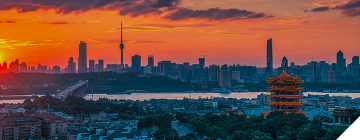
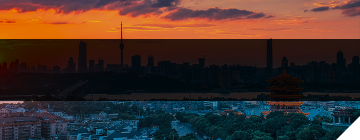
s11专题页

diff --git a/V1/css/s11.css b/V1/css/s11.css
@@ -1,6 +1,10 @@
-.s11 .format{
-
+.s11_format{
+    background: #FFFFFF;
+    border: 1px solid #EEEEEE;
+    border-radius: 8px;
+    padding: 30px 20px;
 }
+
 .s11_format_ul{
     display: flex;
     margin-bottom: 32px;
@@ -212,9 +216,8 @@
     background-repeat: no-repeat;
     background-position: center;
     background-size: cover;
-    margin-bottom: 10px;
+    /* margin-bottom: 10px; */
     font-size: 24px;
-    height: 140px;
     color: #fff;
     text-align: center;
     line-height: 140px;
@@ -249,6 +252,10 @@
 .sq,.cw{
     display: flex;
 }
+.sq{
+    height: 140px;
+    margin-bottom: 10px;
+}
 .sqcw .city_name{
     font-size: 24px;
     color: #fff;
@@ -274,7 +281,7 @@
 }
 .qd_active{
     background-image: url("../images/qd_active.png");
-    margin-bottom: 10px;
+    /* margin-bottom: 10px; */
 }
 .cd_active{
     background-image: url("../images/cd_active.png");
@@ -290,11 +297,14 @@
 }
 .s11_previous{
     width: 1200px;
-    height: 435px;
     background: #FFFFFF;
     border: 1px solid #EEEEEE;
     border-radius: 8px;
-    padding: 20px 20px 0 18px;
+    padding: 20px 20px 20px 18px;
+    background-image: url("../images/s11_pre_bg.png");
+    background-size: contain;
+    background-position: top right;
+    background-repeat: no-repeat;
 }
 .s11_previous_conItem{
     padding-left: 44px;
@@ -354,7 +364,7 @@
     margin-left: -50px;
     top: 20px;
 }
-.s11_previous_ulLi.active span{
+.s11_previous_ulLi.active span,.s11_previous_ulLi:hover span{
     font-size: 20px;
     color: #0F1AD3;
 }
@@ -374,7 +384,7 @@
     top: 50%;
     margin-top: -5px;
 }
-.s11_previous_ulLi.active::after{
+.s11_previous_ulLi.active::after,.s11_previous_ulLi:hover::after{
     width: 24px;
     height: 24px;
     background-image: url("../images/s11_pre_dot_active.png");
@@ -503,7 +513,7 @@
         padding-top: 0;
     }
     .s11_city{
-        padding: .3rem .3rem 0 .3rem;
+        padding: .3rem .3rem .2rem .3rem;
     }
     .s11_city_detail{
         flex-direction: column;
@@ -569,6 +579,8 @@
      .sq, .cw{
          justify-content: space-between;
          width: 6.9rem;
+         height: 3rem;
+         margin-bottom: .1rem;
      }
      .sqcw .city_name{
          font-size: .3rem;
@@ -616,8 +628,12 @@
      }
      .s11_previous{
          width: 7.5rem;
-         height: 6.7rem;
-         padding: .3rem .3rem 0 .3rem;
+         padding: .3rem .3rem 0.2rem .3rem;
+         background-image: url("../images/s11_pre_bg_wap.png");
+        background-size: cover;
+        background-position: top right;
+        background-repeat: no-repeat;
+        border: 0;
      }
      .s11_previous_champions{
          width: 6.9rem;
@@ -640,5 +656,28 @@
         line-height: .26rem;
         text-align: left;
         flex-shrink: 0;
+    }
+    .s11_previous_ulLi{
+        margin-bottom: .72rem;
+        width: 1.16rem;
+        height: .02rem;
+    }
+    .s11_champions_con .left span{
+        font-size: .22rem;
+        line-height: .22rem;
+        height: .22rem;
+    }
+    .s11_previous_con{
+        margin-bottom: .2rem;
+    }
+    .s11_previous_ul_wrapper{
+        width: 100%;
+        overflow-x: scroll;
+    }
+    .s11_previous_ul {
+        display: flex;
+        width: 11.6rem;
+        height: .86rem;
+        padding-top: .12rem;
     }
 }

diff --git a/V1/s11.html b/V1/s11.html
@@ -107,7 +107,7 @@
                 </div>
                 <!-- 比赛介绍 -->
                 <!-- 赛制 -->
-                <div class="format mb20">
+                <div class="s11_format mb20">
                     <div class="team_pub_top clearfix">
                         <div class="team_pub_img fl">
                             <img class="imgauto" src="./images/format_icon.png" alt="">
@@ -769,18 +769,20 @@
                                 </div>
                             </div>
                         </div>
-                        <ul class="s11_previous_ul">
-                            <li class="s11_previous_ulLi active"><span>2020</span></li>
-                            <li class="s11_previous_ulLi"><span>2019</span></li>
-                            <li class="s11_previous_ulLi"><span>2018</span></li>
-                            <li class="s11_previous_ulLi"><span>2017</span></li>
-                            <li class="s11_previous_ulLi"><span>2016</span></li>
-                            <li class="s11_previous_ulLi"><span>2015</span></li>
-                            <li class="s11_previous_ulLi"><span>2014</span></li>
-                            <li class="s11_previous_ulLi"><span>2013</span></li>
-                            <li class="s11_previous_ulLi"><span>2012</span></li>
-                            <li class="s11_previous_ulLi"><span>2011</span></li>
-                        </ul>
+                        <div class="s11_previous_ul_wrapper">
+                            <ul class="s11_previous_ul">
+                                <li class="s11_previous_ulLi active"><span>2020</span></li>
+                                <li class="s11_previous_ulLi"><span>2019</span></li>
+                                <li class="s11_previous_ulLi"><span>2018</span></li>
+                                <li class="s11_previous_ulLi"><span>2017</span></li>
+                                <li class="s11_previous_ulLi"><span>2016</span></li>
+                                <li class="s11_previous_ulLi"><span>2015</span></li>
+                                <li class="s11_previous_ulLi"><span>2014</span></li>
+                                <li class="s11_previous_ulLi"><span>2013</span></li>
+                                <li class="s11_previous_ulLi"><span>2012</span></li>
+                                <li class="s11_previous_ulLi"><span>2011</span></li>
+                            </ul>
+                        </div>
                         <div class="s11_previous_champions">
                             <div class="s11_champions_item active">
                                 <p class="s11_champions_title">2020全球总决赛冠军</p>
@@ -1055,8 +1057,8 @@
                 })
             }
 
-            // if($(window).height() <= 768){
-            // }
+            if($(window).height() <= 768){
+            }
       
 
 
